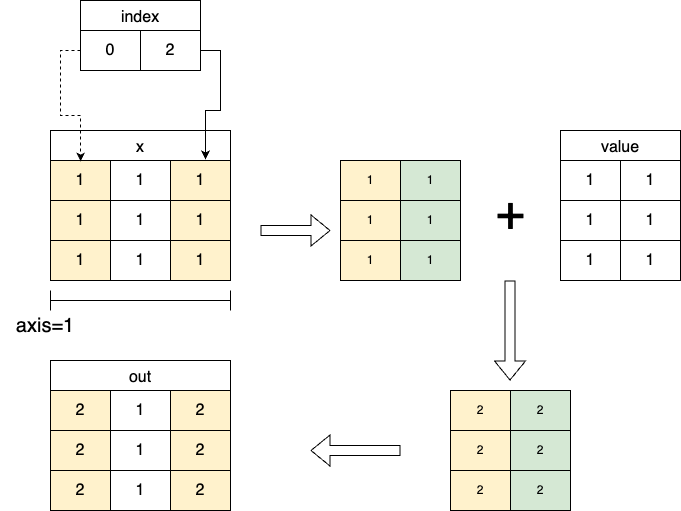
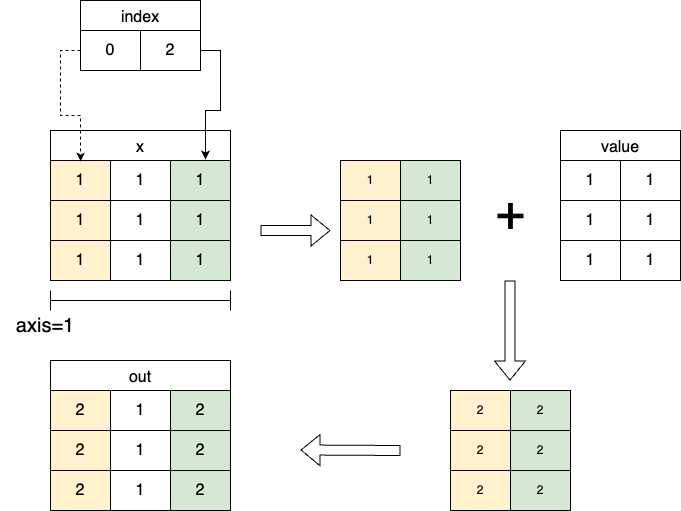
修改第二张图以及修改文档内容

Changed region(s): [[0.2467, 0.2935, 0.3392, 0.5577], [0.2467, 0.7632, 0.3392, 0.998], [0.4317, 0.8513, 0.5551, 0.91]]

diff --git a/docs/api/paddle/index_add_cn.rst b/docs/api/paddle/index_add_cn.rst
@@ -12,7 +12,7 @@ index_add
 **示例**
 
 ::
-    * 示例 1（输入为 2-D Tensor）：
+    * 示例 1 （输入为 2-D Tensor, axis=0 ）：
 
         输入：
             x.shape = [3, 3]
@@ -35,7 +35,7 @@ index_add
                         [1., 1., 1.],
                         [2., 2., 2.]]
 
-    * 示例 2（输入为 2-D Tensor）：
+    * 示例 2 （输入为 2-D Tensor, axis=1 ）：
 
         输入：
             x.shape = [3, 3]
